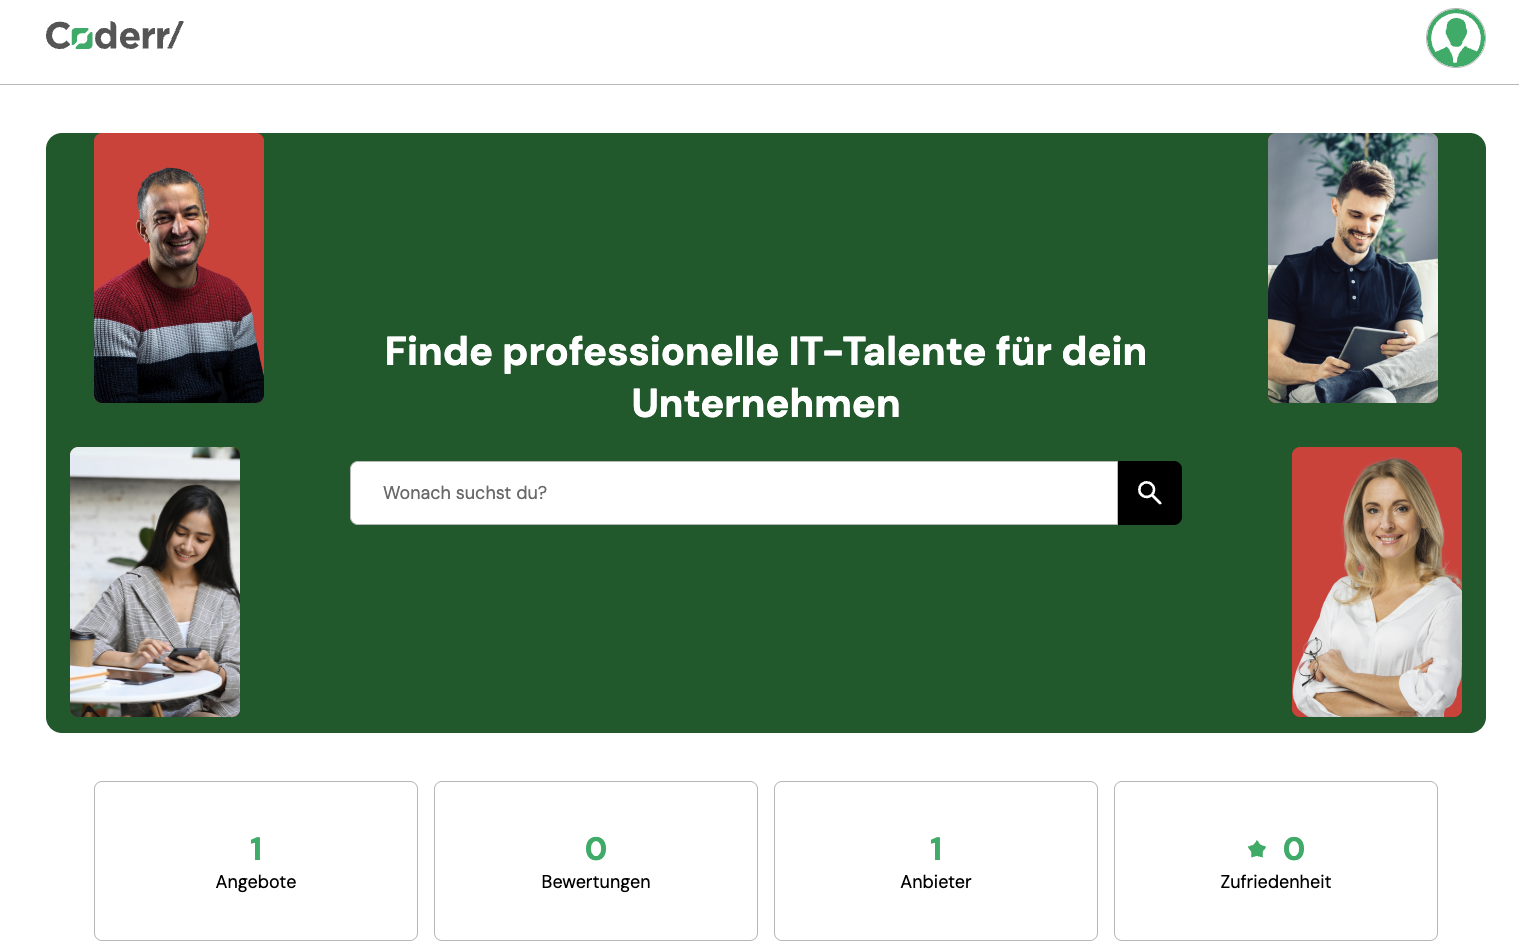
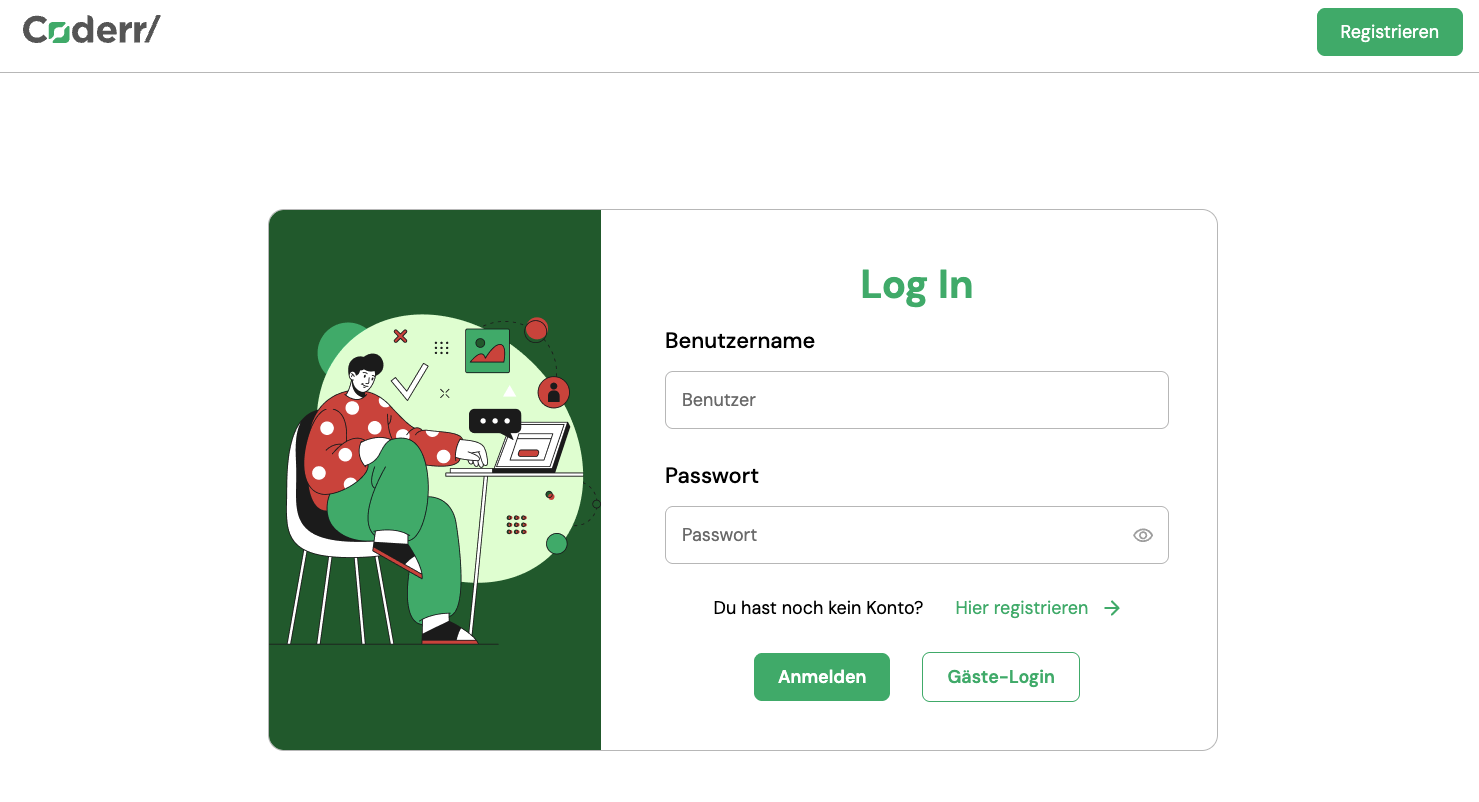
update: change some projects screenshots

diff --git a/src/app/main-content/projects/projects.component.ts b/src/app/main-content/projects/projects.component.ts
@@ -132,7 +132,7 @@ export class ProjectsComponent implements AfterViewInit {
       ],
       image: './assets/img/coderr_mainscreen.png',
       imageOverlay: [
-        './assets/img/coderr_mainscreen.png'
+        './assets/img/coderr_overlay.png'
       ],
       gitHubButton: 'GitHub',
       liveTestButton: 'Live Test',
@@ -153,7 +153,7 @@ export class ProjectsComponent implements AfterViewInit {
       ],
       image: './assets/img/kanmind_mainscreen.png',
       imageOverlay: [
-        './assets/img/kanmind_mainscreen.png'
+        './assets/img/kanmind_overlay.png'
       ],
       gitHubButton: 'GitHub Frontend',
       liveTestButton: 'GitHub Backend',
@@ -176,7 +176,7 @@ export class ProjectsComponent implements AfterViewInit {
       ],
       image: './assets/img/videoflix_mainscreen.png',
       imageOverlay: [
-        './assets/img/videoflix_mainscreen.png'
+        './assets/img/videoflix_overlay.png'
       ],
       gitHubButton: 'GitHub Frontend',
       liveTestButton: 'GitHub Backend',

diff --git a/src/app/main-content/projects/projects.component.scss b/src/app/main-content/projects/projects.component.scss
@@ -120,12 +120,14 @@ section {
             pointer-events: none;
             transition: opacity 0.3s ease, transform 0.3s ease;
 
+
             img {
               width: 300px;
               height: auto;
               border-radius: 16px;
               object-fit: cover;
               z-index: 10;
+              border: 2px solid var(--color-main-green);
             }
           }
 
